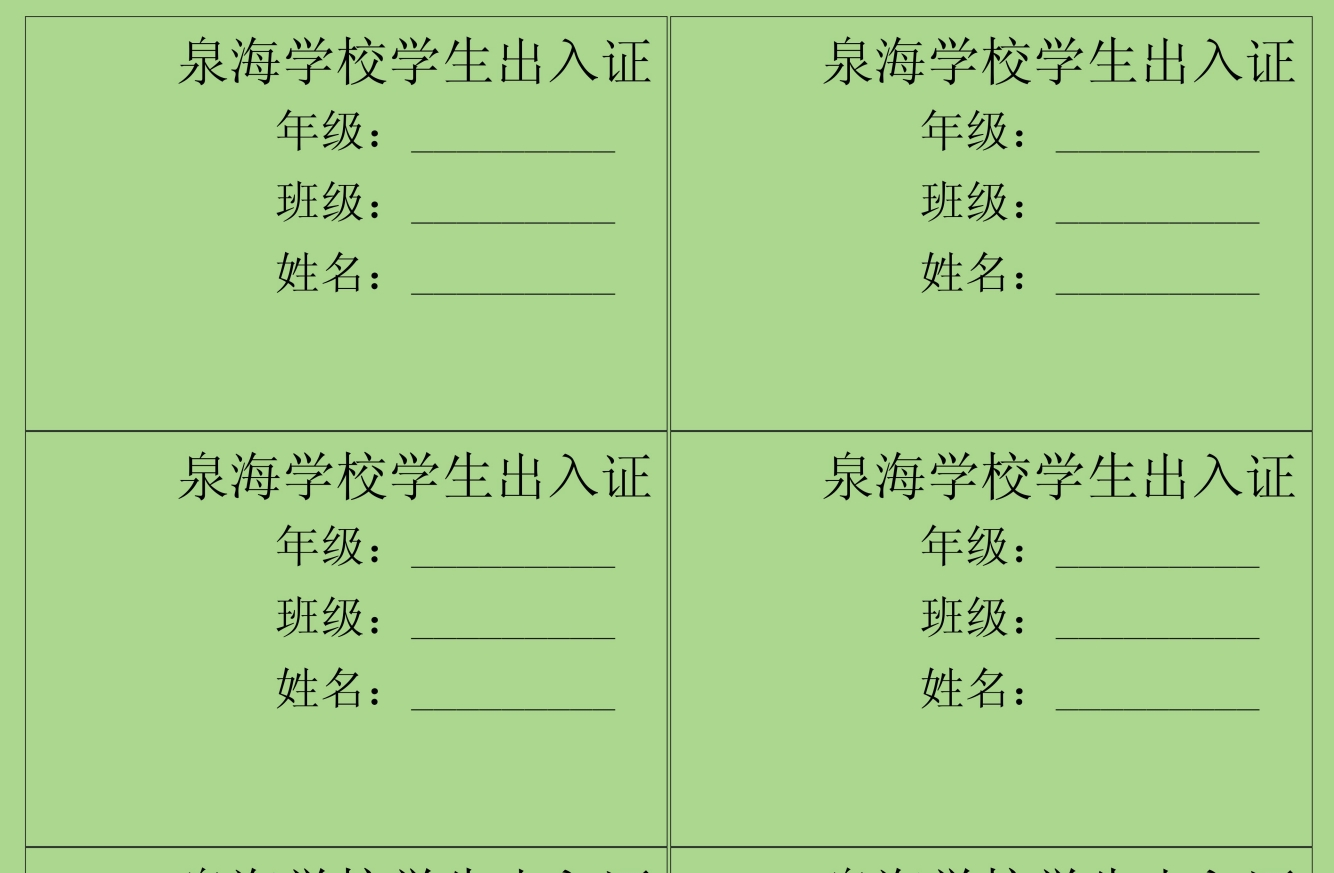
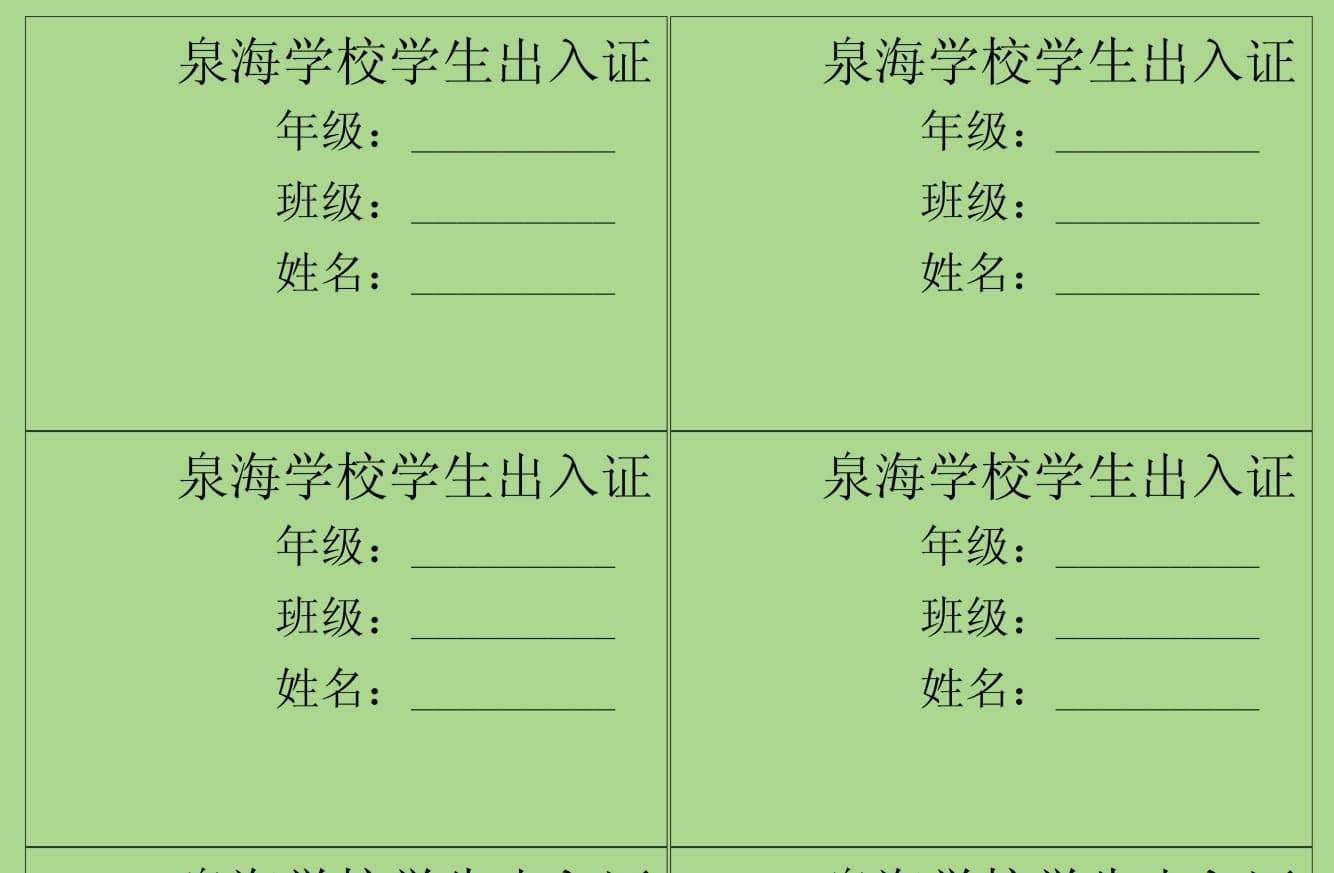
2
2

diff --git a/index.html b/index.html
@@ -24,23 +24,7 @@
             }
         }
     </script>
-    <style type="text/tailwindcss">
-        @layer utilities {
-            .text-shadow {
-                text-shadow: 1px 1px 2px rgba(0, 0, 0, 0.3);
-            }
-            .hover-scale {
-                transition: transform 0.3s ease;
-            }
-            .hover-scale:hover {
-                transform: scale(1.03);
-            }
-            .news-title-hover:hover {
-                color: #c8161d;
-                text-decoration: underline;
-            }
-        }
-    </style>
+    <link rel="stylesheet" href="styles.css">
 </head>
 <body class="font-sans bg-gray-100">
     <!-- 顶部信息栏 -->
@@ -52,7 +36,7 @@
         <div class="container mx-auto px-4 py-4">
             <div class="flex flex-col md:flex-row justify-between items-center">
                 <div class="flex items-center mb-4 md:mb-0">
-                    <img src=".\img\logo.svg" alt="政府标志" class="h-12 mr-4">
+                    <img src=".\img\logo.png" alt="政府标志" class="h-12 mr-4">
                     <div>
                         <h1 class="text-2xl md:text-3xl font-bold text-primary">泉海学校伪造工作室</h1>
                         <p class="text-sm text-gray-600">官方网站</p>
